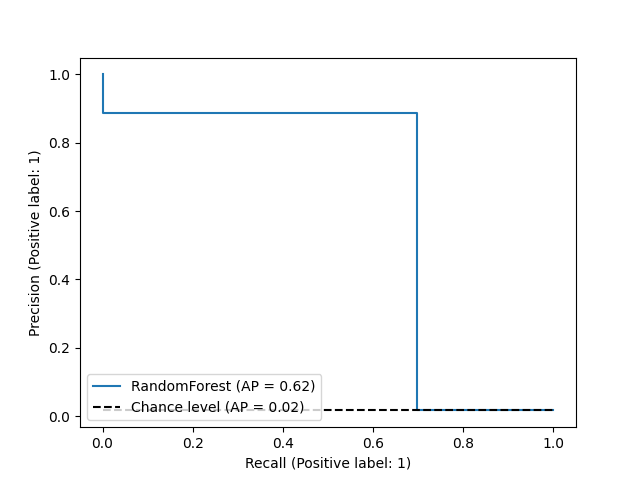
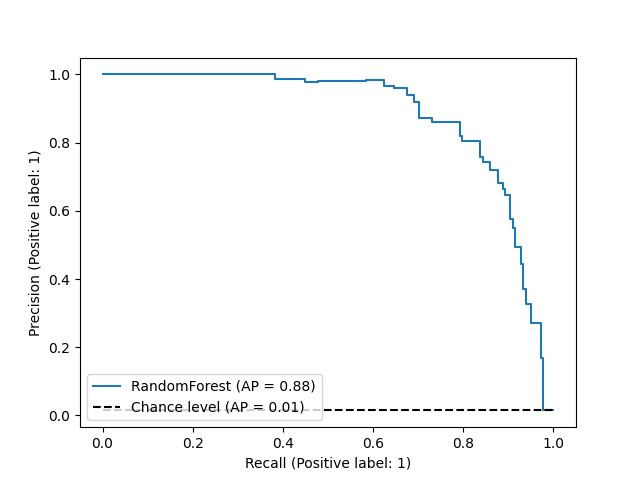
fix precision recall and add threshold

diff --git a/model.py b/model.py
@@ -45,7 +45,7 @@ class RandomForestModel:
         np.save(fname, rand_search.best_params_)
         return best_rf
 
-    def predict(self):
+    def predict(self, threshold=0.5):
         """
         predict y values for the test dataset after fit and return predicted values
         """
@@ -59,9 +59,10 @@ class RandomForestModel:
         else:
             best_rf = self.find_best(param_dist, fname=f'saved/best_hyper_params.npy')
         best_rf.fit(self.X_train, self.y_train)
-        return best_rf.predict(self.X_test)
+        predicted_prob = best_rf.predict_proba(self.X_test)
+        return predicted_prob, (predicted_prob[:, 1] >= threshold).astype('int')
 
-    def plot(self, y_pred):
+    def plot(self, y_pred, y_prob):
         """
         plot confusion matrix and precision recall for predicted and real values
         """
@@ -69,15 +70,15 @@ class RandomForestModel:
         ConfusionMatrixDisplay(confusion_matrix=cm).plot()
         plt.savefig('plots/rf_confusion_matrix.png')
         PrecisionRecallDisplay.from_predictions(
-            self.y_test, y_pred, name="RandomForest", plot_chance_level=True,
+            self.y_test, y_prob[:, 1], name="RandomForest", plot_chance_level=True,
         )
         plt.savefig('plots/rf_precision_recall.png')
 
-    def print_scores(self, y_pred):
+    def print_scores(self, y_pred, y_prob):
         accuracy = accuracy_score(self.y_test, y_pred)
         precision = precision_score(self.y_test, y_pred)
         recall = recall_score(self.y_test, y_pred)
-        average_precision = average_precision_score(self.y_test, y_pred)
+        average_precision = average_precision_score(self.y_test, y_prob[:, 1])
         print("Accuracy:", accuracy)
         print("Precision:", precision)
         print("Average Precision:", average_precision)
@@ -106,6 +107,6 @@ if __name__ == '__main__':
         X = df.drop(labels=['id', 'class'], axis=1)
     y = df['class']
     rf = RandomForestModel(X, y, pca_dims)
-    pred = rf.predict()
-    rf.plot(pred)
-    rf.print_scores(pred)
+    prob, pred = rf.predict(threshold=0.95)
+    rf.plot(pred, prob)
+    rf.print_scores(pred, prob)

diff --git a/eda.py b/eda.py
@@ -5,20 +5,22 @@ from matplotlib import pyplot as plt
 from sklearn.ensemble import IsolationForest
 from sklearn.model_selection import train_test_split
 from sklearn.metrics import precision_score
-
 from helpers import read_csv_with_pandas
-
-# pca_data = np.load("pca_data.npy")
-# df = pd.DataFrame(data=data)
 
 df = read_csv_with_pandas(path='data/aps_failure_training_set.csv')
 
+count0 = sum([1 for i in df['class'] if not i])
+print('percentage of neg class:', count0/len(df['class']))  # gives 0.98 -> highly imbalanced dataset
+
+for col in df.columns:
+    print(f'for column {col} there are {df[col].isna().sum()} nan values.')
+
 # print(df.describe(include='all').T)
 # print(df.dtypes)
-sns.boxplot(y=df["cn_008"].values)
-plt.title("Boxplot of cn_008")
-plt.show()
-plt.close()
+# sns.boxplot(y=df["cn_008"].values)
+# plt.title("Boxplot of cn_008")
+# plt.show()
+# plt.close()
 
 # outlier detection
 X = df.drop(labels=['class', 'id'], axis=1)
